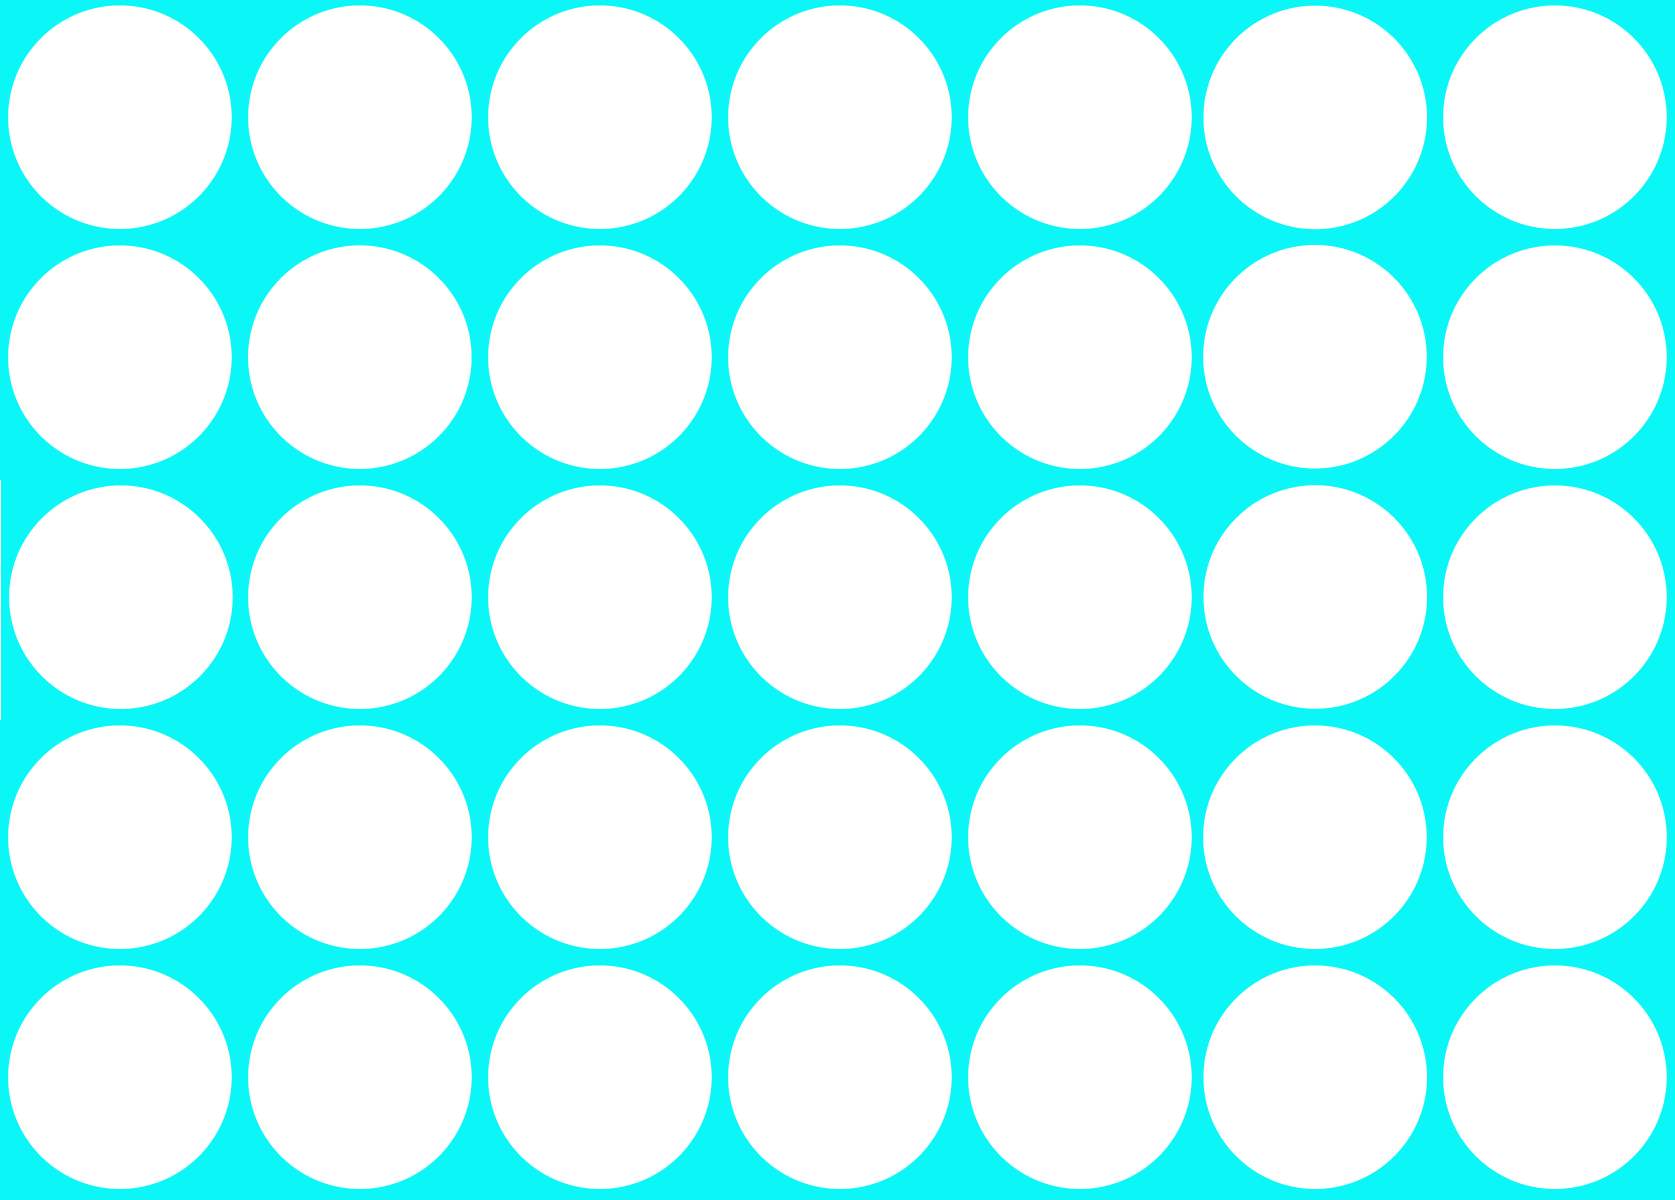
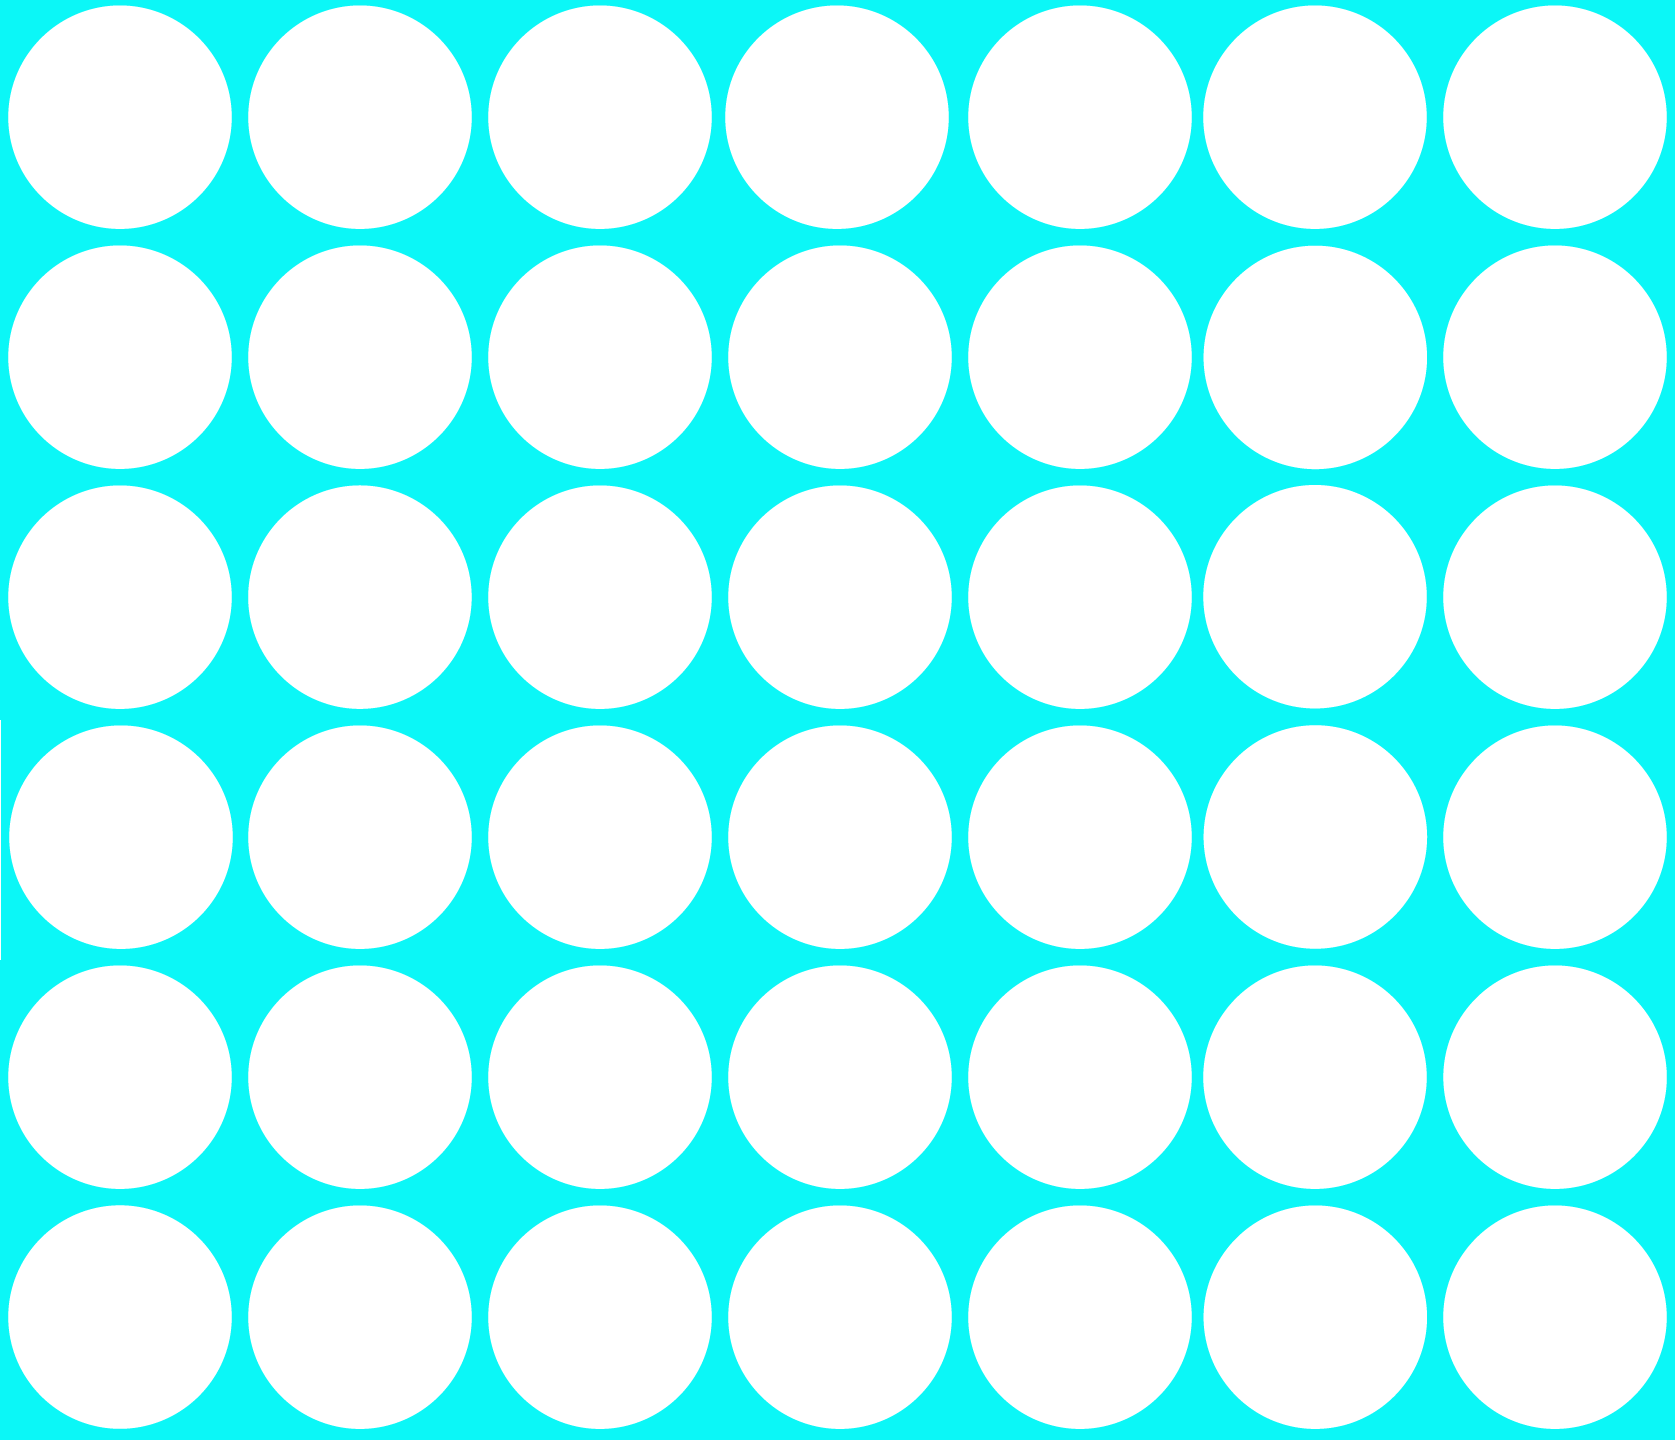
TODO:improve forfeit; opponent's name; minor bug fix

diff --git a/src/frontEnd/controllers/gameController.js b/src/frontEnd/controllers/gameController.js
@@ -13,6 +13,17 @@ gameApp.controller('gameController', function($scope, $interval ,$location, $win
              'Authorization': 'Token '+token,
          }
          };
+         $http.post('http://localhost:8000/games/forfeit',
+             null,
+             config
+             )
+             .success(function(data, status, headers, config) {
+                 console.log('message sent successfully!');
+                 //alert(data.turn);
+             })
+         .error(function(data, status, headers, config) {
+             console.log("error in stating or joining a game:" + status);
+         });
          $http.post('http://localhost:8000/games/start',
              null,
              config
@@ -22,7 +33,8 @@ gameApp.controller('gameController', function($scope, $interval ,$location, $win
                  //alert(data.turn);
              })
          .error(function(data, status, headers, config) {
-             alert("error in stating or joining a game:" + status);
+             //alert("error in stating or joining a game:" + status);
+             console.log("error in stating or joining a game:" + status);
          });
 
     };

diff --git a/src/frontEnd/controllers/game.js b/src/frontEnd/controllers/game.js
@@ -1,7 +1,7 @@
 //global variables
-var bgW = 8.25;
-var bgH = 6;
-var circleR = bgH/(2*5.0);
+var bgW = 7;
+var bgH = bgW/1.163;
+var circleR = bgH/(2*6.0);
 var boundaryX = bgW;
 var boundaryY = bgH;
 var error = circleR * 0.75;
@@ -11,8 +11,8 @@ var colUnit = bgW / 7.0;
 var colCenterCoords = [0-colUnit*3, 0-colUnit*2, 0-colUnit*1, 0, colUnit*1, colUnit*2, colUnit*3];
 
 //for row
-var rowUnit = bgH / 5.0;
-var rowCenterCoords = [0+rowUnit*2, 0+rowUnit*1, 0, 0-rowUnit*1, 0-rowUnit*2];
+var rowUnit = bgH / 6.0;
+var rowCenterCoords = [0+rowUnit*2.5, 0+rowUnit*1.5, 0+rowUnit*0.5, 0-rowUnit*0.5, 0-rowUnit*1.5,0-rowUnit*2.5];
 
 //get the cookie according to name http://www.w3schools.com/js/js_cookies.asp
 function getCookie(cname) {
@@ -105,13 +105,12 @@ function getGameStatus(){
         }
     }else{
         if (xmlhttp.status == 500){
-            //seems to be too fast for server to load sth
+            console.log(xmlhttp.responseText);
         }else{
-            alert(xmlhttp.responseText);
+            console.log(xmlhttp.responseText);
         }
     }
 
-    //alert(xmlhttp.responseText);
 }
 
 //whoami()

diff --git a/src/frontEnd/controllers/loginController.js b/src/frontEnd/controllers/loginController.js
@@ -52,6 +52,24 @@
             }
         }
          $scope.logout = function(){
+             var token = $cookieStore.get("token");
+             //alert(token);
+             var config = {headers: {
+                 'Authorization': 'Token '+token,
+             }
+             };
+             $http.post('http://localhost:8000/games/forfeit',
+                     null,
+                     config
+                     )
+                 .success(function(data, status, headers, config) {
+                     console.log('message sent successfully!');
+                     //alert(data.turn);
+                 })
+             .error(function(data, status, headers, config) {
+                 console.log("error in stating or joining a game:" + status);
+             });
+             
              //$cookieStore.remove('token');
              //alert("remove cookie");
              document.cookie = "token=;path=/";
